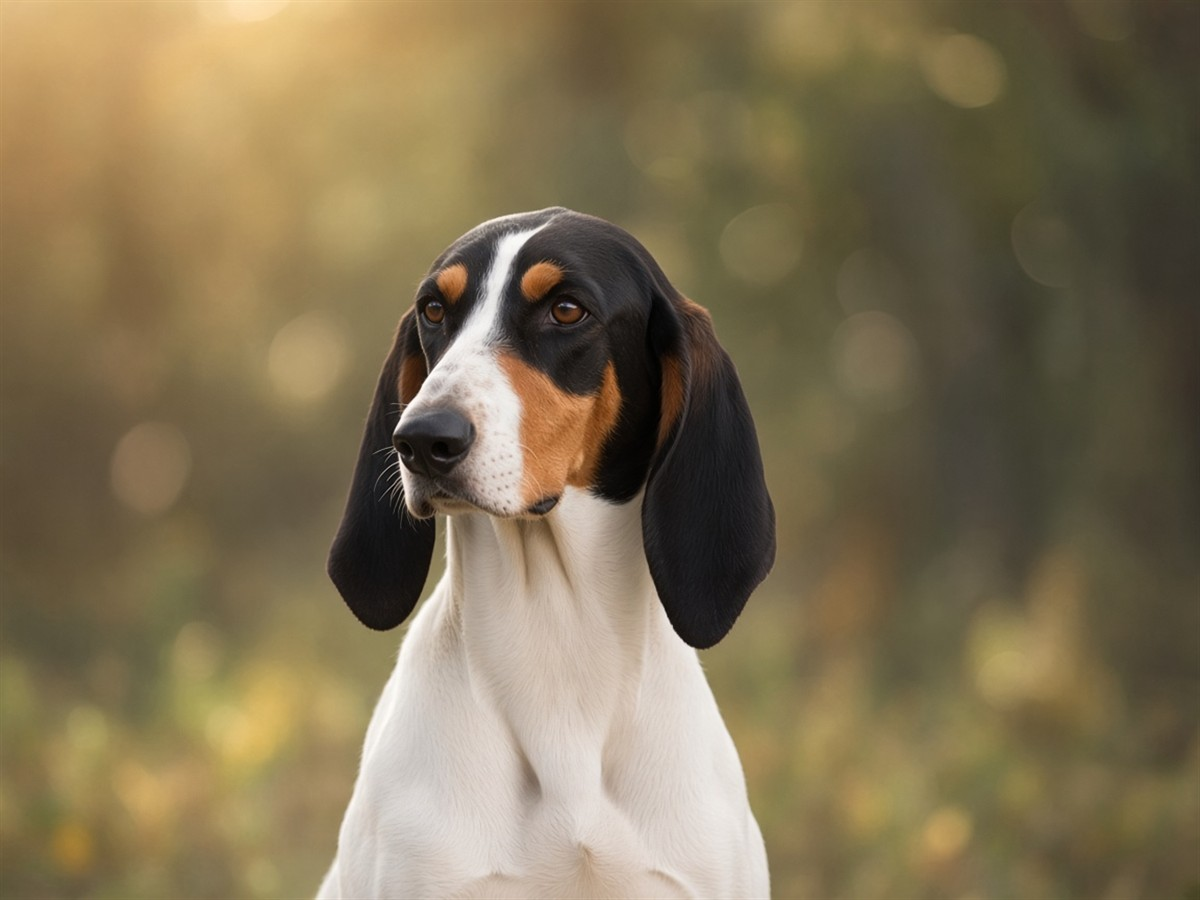
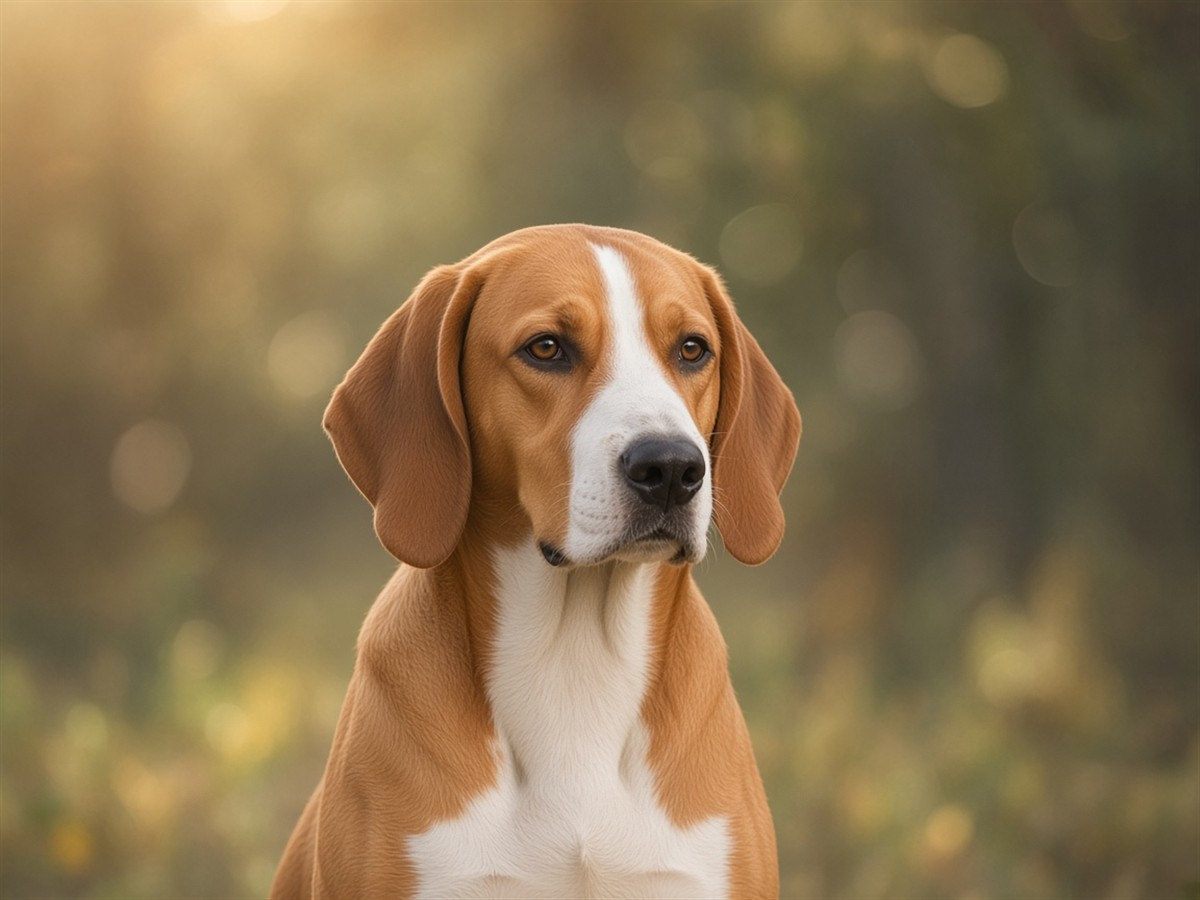
Update Breed Photo Style Guidelines and Image References
- Revised the breed photo style guidelines to include two approved background styles for breed images, emphasizing the importance of color contrast in photography.
- Updated the image paths for 'Artoisský honič' to reflect the new versioning, ensuring consistency in the dog breed image library.
- Enhanced the workflow for generating breed images to align with the updated guidelines, improving the overall quality and representation of breed images.

Changed region(s): [[0.2158, 0.2178, 0.6783, 1.0], [0.4625, 0.9333, 0.4933, 0.9644]]

diff --git a/src/lib/messaging/privacy.ts b/src/lib/messaging/privacy.ts
@@ -1,3 +1,11 @@
+/**
+ * Messaging payload privacy gates.
+ * Blocks freeform clinical / PII dumps in message JSON.
+ * K61 clinical_share attachments use a dedicated allowlist (not freeform).
+ */
+
+import type { ClinicalShareAttachment } from '../../types'
+
 const FORBIDDEN_PATTERNS = [
   /microchip/i,
   /ownerContacts?/i,
@@ -12,6 +20,7 @@ const FORBIDDEN_PATTERNS = [
   /verificationStatus/i,
   /licenseNumber/i,
   /password/i,
+  /storageKey/i,
 ]
 
 /** True when payload JSON does not contain forbidden private fields. */
@@ -21,7 +30,127 @@ export function isSafeMessagingPayload(payload: unknown): boolean {
   return !FORBIDDEN_PATTERNS.some((re) => re.test(text))
 }
 
+const SHARE_ATTACHMENT_KEYS = new Set([
+  'kind',
+  'shareType',
+  'sourceId',
+  'petId',
+  'title',
+  'subtitle',
+  'occurredOn',
+  'displayKind',
+])
+
+const SHARE_TYPES = new Set([
+  'health_record',
+  'measurement',
+  'document',
+  'encounter',
+])
+
+const DISPLAY_KINDS = new Set([
+  'vax',
+  'med',
+  'visit',
+  'labs',
+  'weight',
+  'doc',
+  'encounter',
+])
+
+/** Hard reject if display strings look like storage / credential injection. */
+const ATTACHMENT_VALUE_FORBIDDEN = [
+  /storageKey/i,
+  /indexeddb/i,
+  /^https?:\/\//i,
+  /^blob:/i,
+  /^data:/i,
+  /microchip/i,
+  /ownerContacts?/i,
+  /ownerPhone/i,
+  /ownerEmail/i,
+  /password/i,
+  /bearer\s+/i,
+]
+
+function isRecord(value: unknown): value is Record<string, unknown> {
+  return typeof value === 'object' && value !== null && !Array.isArray(value)
+}
+
+export function isClinicalShareAttachment(
+  value: unknown,
+): value is ClinicalShareAttachment {
+  if (!isRecord(value)) return false
+  return value.kind === 'clinical_share'
+}
+
+/**
+ * Allowlist validator for K61 clinical_share attachments.
+ * Permits safe display titles; rejects storage keys, raw URLs, and unknown keys.
+ */
+export function assertClinicalShareAttachmentSafe(
+  attachment: unknown,
+  label = 'clinical_share',
+): asserts attachment is ClinicalShareAttachment {
+  if (!isRecord(attachment)) {
+    throw new Error(`${label}: attachment must be an object`)
+  }
+  for (const key of Object.keys(attachment)) {
+    if (!SHARE_ATTACHMENT_KEYS.has(key)) {
+      throw new Error(`${label}: forbidden key ${key}`)
+    }
+  }
+  if (attachment.kind !== 'clinical_share') {
+    throw new Error(`${label}: kind must be clinical_share`)
+  }
+  if (typeof attachment.shareType !== 'string' || !SHARE_TYPES.has(attachment.shareType)) {
+    throw new Error(`${label}: invalid shareType`)
+  }
+  if (typeof attachment.sourceId !== 'string' || !attachment.sourceId.trim()) {
+    throw new Error(`${label}: sourceId required`)
+  }
+  if (typeof attachment.petId !== 'string' || !attachment.petId.trim()) {
+    throw new Error(`${label}: petId required`)
+  }
+  if (typeof attachment.title !== 'string' || !attachment.title.trim()) {
+    throw new Error(`${label}: title required`)
+  }
+  if (attachment.subtitle !== undefined && typeof attachment.subtitle !== 'string') {
+    throw new Error(`${label}: subtitle must be string`)
+  }
+  if (attachment.occurredOn !== undefined && typeof attachment.occurredOn !== 'string') {
+    throw new Error(`${label}: occurredOn must be string`)
+  }
+  if (
+    attachment.displayKind !== undefined &&
+    (typeof attachment.displayKind !== 'string' ||
+      !DISPLAY_KINDS.has(attachment.displayKind))
+  ) {
+    throw new Error(`${label}: invalid displayKind`)
+  }
+
+  for (const key of ['title', 'subtitle', 'occurredOn', 'sourceId', 'petId'] as const) {
+    const v = attachment[key]
+    if (typeof v !== 'string') continue
+    if (ATTACHMENT_VALUE_FORBIDDEN.some((re) => re.test(v))) {
+      throw new Error(`${label}: unsafe value in ${key}`)
+    }
+  }
+}
+
 export function assertMessagingPayloadSafe(payload: unknown, label = 'messaging'): void {
+  if (payload == null) return
+
+  // Clinical share: validate attachment via allowlist; scrub rest without attachment body.
+  if (isRecord(payload) && isClinicalShareAttachment(payload.attachment)) {
+    assertClinicalShareAttachmentSafe(payload.attachment, label)
+    const { attachment: _att, ...rest } = payload
+    if (!isSafeMessagingPayload(rest)) {
+      throw new Error(`${label}: payload contains forbidden private fields`)
+    }
+    return
+  }
+
   if (!isSafeMessagingPayload(payload)) {
     throw new Error(`${label}: payload contains forbidden private fields`)
   }

diff --git a/src/types/index.ts b/src/types/index.ts
@@ -844,6 +844,8 @@ export type NotificationType =
   | 'payment_failed'
   | 'payment_cancelled'
   | 'payment_refunded'
+  /** K61 — clinical share received (no clinical payload in notification). */
+  | 'clinical_share_received'
 
 export type NotificationPriority = 'normal' | 'important' | 'urgent'
 
@@ -896,14 +898,49 @@ export interface Message {
   createdAt?: string
   /** Set when the other participant has read the message. */
   readAt?: string
-  attachment?: {
-    kind: 'health_record'
-    recordId: string
-    title: string
-    subtitle: string
-    date: string
-    category?: 'vaccination' | 'medication' | 'visit' | 'results'
-  }
+  /**
+   * Optional structured attachment.
+   * Legacy `health_record` cards remain for old UI seeds.
+   * K61 clinical share uses `clinical_share` — reference + safe display only.
+   */
+  attachment?:
+    | {
+        kind: 'health_record'
+        recordId: string
+        title: string
+        subtitle: string
+        date: string
+        category?: 'vaccination' | 'medication' | 'visit' | 'results'
+      }
+    | ClinicalShareAttachment
+}
+
+/** K61 — safe clinical share card (Messages transport only; not clinical SSOT). */
+export type ClinicalShareType =
+  | 'health_record'
+  | 'measurement'
+  | 'document'
+  | 'encounter'
+
+export type ClinicalShareDisplayKind =
+  | 'vax'
+  | 'med'
+  | 'visit'
+  | 'labs'
+  | 'weight'
+  | 'doc'
+  | 'encounter'
+
+export interface ClinicalShareAttachment {
+  kind: 'clinical_share'
+  shareType: ClinicalShareType
+  sourceId: string
+  petId: string
+  title: string
+  subtitle?: string
+  occurredOn?: string
+  /** Opaque display code — avoids embedding clinical vocabulary keys in payloads. */
+  displayKind?: ClinicalShareDisplayKind
 }
 
 export type ConversationContactType =

diff --git a/src/lib/petBreedImages.ts b/src/lib/petBreedImages.ts
@@ -31,7 +31,7 @@ export const DOG_BREED_IMAGES: Record<string, string> = {
   'Ariégois': '/breeds/ariegois.jpg?v=1',
   'Ariegský ohař krátkosrstý': '/breeds/ariegsky-ohar-kratkosrsty.jpg?v=1',
   'Artésko-normandský basset': '/breeds/artesko-normandsky-basset.jpg?v=1',
-  'Artoisský honič': '/breeds/artoissky-honic.jpg?v=1',
+  'Artoisský honič': '/breeds/artoissky-honic.jpg?v=2',
   'Australská kelpie': 'https://images.dog.ceo/breeds/australian-kelpie/resized_20200303_233358_108952253645051.jpg',
   'Australský honácký pes': 'https://images.unsplash.com/photo-1769117086709-7507034281fa?auto=format&fit=crop&w=1200&q=90',
   'Australský honácký pes s krátkým ocasem': 'https://images.unsplash.com/photo-1769117086709-7507034281fa?auto=format&fit=crop&w=1200&q=90',
